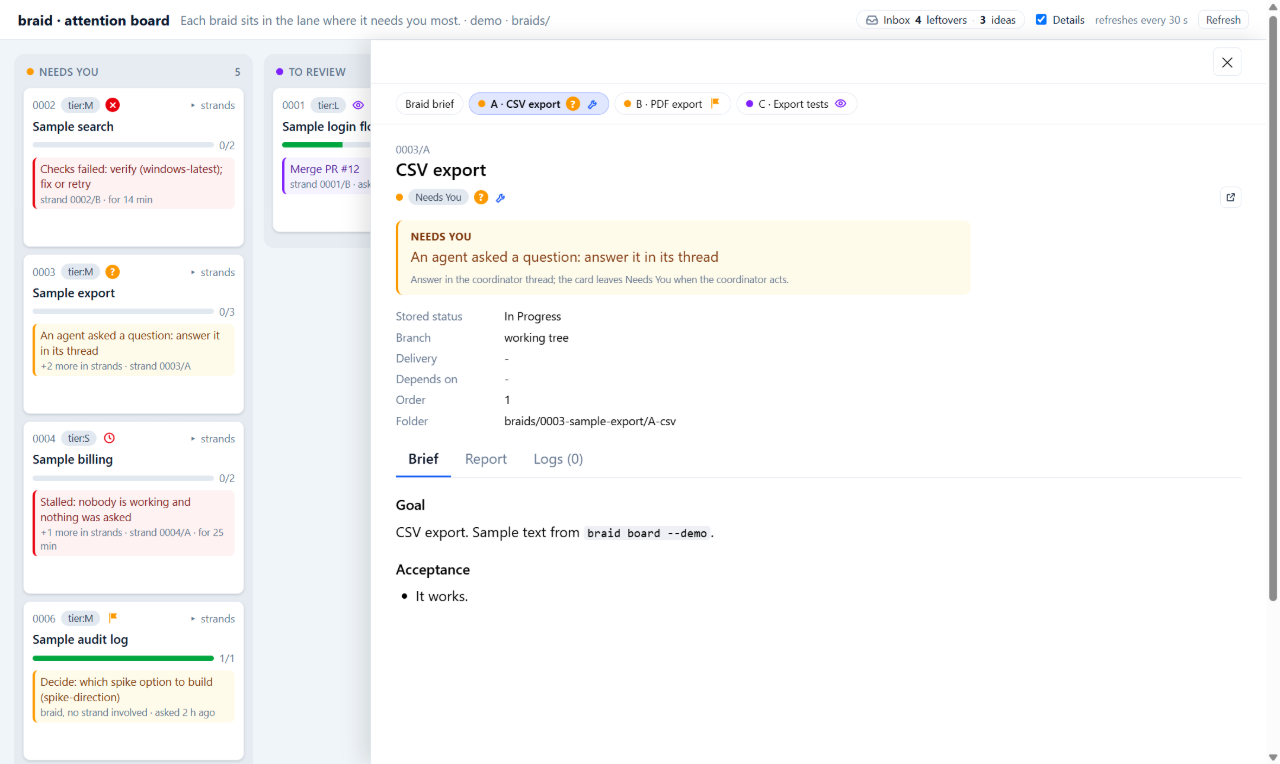
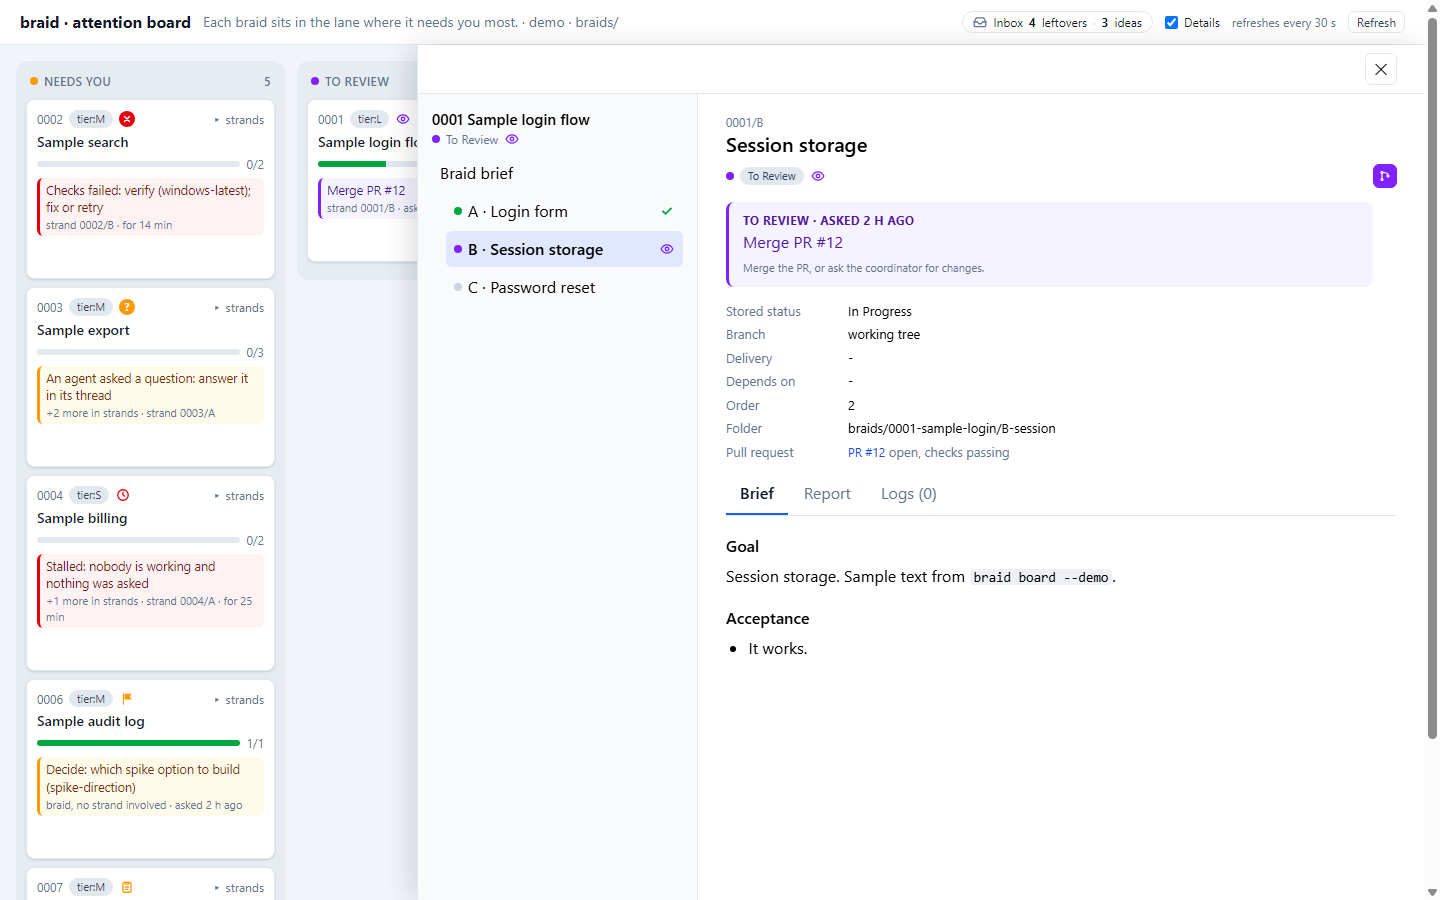
feat(board): strand list as a left rail in the details panel

diff --git a/web/src/App.tsx b/web/src/App.tsx
@@ -884,24 +884,30 @@ function Logs({ logs }: { logs: ItemDetail["logs"] }) {
   );
 }
 
-/** Moving between a braid's brief and its strands, inside the details. */
+/** The braid's contents, a rail beside the details: the braid, its brief and one row per strand. */
 function Contents({ braid, current }: { braid: BraidCard; current: string }) {
-  const chip = (id: string, label: string, strand: StrandCard | null) => (
+  const row = (id: string, label: string, strand: StrandCard | null) => (
     <button
       key={id}
       type="button"
       onClick={() => go(id)}
-      className={`flex flex-none cursor-pointer items-center gap-1.5 whitespace-nowrap rounded-full border px-2.5 py-1 text-xs hover:border-blue-600 ${current === id ? "border-indigo-300 bg-indigo-100 font-semibold" : "border-slate-200 bg-white"}`}
+      className={`mt-0.5 flex cursor-pointer items-center gap-1.5 rounded-md px-2 py-1.5 text-left hover:bg-slate-100 ${strand !== null ? "ml-3.5 w-[calc(100%-0.875rem)]" : "w-full"} ${current === id ? "bg-indigo-100 font-semibold" : ""}`}
     >
       {strand !== null && <LaneDot lane={strand.lane} />}
-      {label}
+      <span className="min-w-0 flex-1 truncate" title={label}>{label}</span>
       {strand !== null && <Marks marks={strandMarks(strand)} />}
     </button>
   );
   return (
-    <nav aria-label={`${braid.id} ${braid.title}`} className="flex flex-none gap-1.5 overflow-x-auto border-b border-slate-200 px-7 pb-2.5 pt-2.5 max-md:px-4">
-      {chip(braid.id, "Braid brief", null)}
-      {braid.strands.map((s) => chip(s.id, `${s.id.slice(5)} · ${s.title}`, s))}
+    <nav aria-label={`${braid.id} ${braid.title}`} className="overflow-y-auto overflow-x-hidden border-r border-slate-200 bg-slate-50 p-3.5 max-md:max-h-[34vh] max-md:border-b max-md:border-r-0 max-md:p-3">
+      <h2 className="text-[15px] font-semibold">{braid.id} {braid.title}</h2>
+      <div className="mb-2 flex items-center gap-1.5 text-xs text-slate-500">
+        <LaneDot lane={braid.lane} />
+        {LANE_LABEL[braid.lane]}
+        <Marks marks={cardMarks(braid)} />
+      </div>
+      {row(braid.id, "Braid brief", null)}
+      {braid.strands.map((x) => row(x.id, `${x.id.slice(5)} · ${x.title}`, x))}
     </nav>
   );
 }
@@ -934,10 +940,10 @@ function DetailsPanel({ id, tab, tick }: { id: string; tab: string; tick: Tick }
           </div>
           <Status loaded={loaded}>
             {(item) => (
-              <>
+              <div className={`grid min-h-0 flex-1 ${item.braid.strands.length > 0 ? "grid-cols-[280px_minmax(0,1fr)] max-md:grid-cols-1 max-md:grid-rows-[auto_minmax(0,1fr)]" : ""}`}>
                 {item.braid.strands.length > 0 && <Contents braid={item.braid} current={id} />}
                 <Detail key={item.id} item={item} tab={tab} />
-              </>
+              </div>
             )}
           </Status>
         </Dialog.Content>

diff --git a/docs/decisions.md b/docs/decisions.md
@@ -57,7 +57,7 @@ Updated: 2026-11-16. User requirements take precedence over implementation propo
 | D62 | Planning looks at the other open braids: after understanding the goal, the coordinator runs `braid list --open`, reads the briefs that touch the same commands, files or decisions, and judges each as overlap (a `related` link and an "Already decided" line), a prerequisite (a dependency, or a line to start after the other merges), or a duplicate or contradiction (`related` and a `scope` warning in the plan request, with the options). A warning never stops planning: the plan is drafted and shown with it, and the user's answer, logged on the braid, decides. Only unfinished braids are compared. | A braid lives on its branch until its final PR, so a plan made from `main` alone missed 0024, 0025 and 0026 while 0027 was planned. Overlap is a reading of goals and decisions, which the coordinator does and a CLI heuristic can't; the CLI only gathers the braids. Putting the conflict in the plan request keeps one approval instead of a second stop. (0027 plan, built in 0027/C.) |
 | D63 | A braid card (and the braid's page and Needs You row) with strands carries one compact Coordinator button, which opens its coordinator thread (running, else the newest idle one); it carries no braid-level Open thread, and each strand row keeps its own. A braid without strands keeps Open thread (its worker) plus Coordinator. The `open` action takes `{ id, thread: "coordinator" }` and refuses (400) when there is no coordinator thread. | Each worker already has its button on its strand row, the braid-level one opened only a final-PR reviewer or an idle braid-keyed thread, and the coordinator could not be reached from the board while a strand ran. Mockups approved by the user, 2026-11-18, item 0030. |
 | D64 | The board server reads GitHub, T3, the braids and the inbox in a background loop (on start, every 30 s, 200 ms after a change under `braids/`, on Refresh), one read at a time, and answers `/api/board` and `/api/item` from the latest snapshot; a snapshot is stored only when every source was read, and the first request waits for it. `gh` runs without blocking the server. Open thread takes its link from the snapshot; Start and Merge still read GitHub and T3 fresh. `BRAID_BOARD_TIMINGS=1` prints each read's milliseconds per source. The reads on that path are batched and asynchronous (Done dates in one `git log`, blobs through `git cat-file --batch`; `thread show` is not cached: `thread list` has no pending count and its `updatedAt` lags), with the same data as the one-by-one reads. | A request used to read GitHub, T3 and the braids itself, so an item took seconds to open and `spawnSync` froze the server meanwhile. The user requires the board to be complete and correct, never a partial view, so the page keeps the last whole snapshot until a new whole one is ready. Acting requests must not rely on a snapshot that may be 30 s old. (0028 plan, built in 0028/A; cheaper reads in 0028/B.) |
-| D65 | The board's item details open as a side panel over the board, not as a page: the board stays mounted, the panel is `min(70vw, 1200px)` wide (at least 720 px where the screen allows) and fills the screen below `md`. The hash routes and `#token=` stay; opening adds one history entry, moves inside the details replace it, so Back, Esc, the close button and a click on the board close the panel. The Inbox stays a page. | Reading the board and an item at once was the point: a page replaced the board and lost its scroll and open lanes. A side panel keeps the left lanes visible; a pop-up would dim and cover them. The user chose the panel from mockups and asked for about two-thirds of the width so the brief reads comfortably (user, 2026-11-19, item 0034). |
+| D65 | The board's item details open as a side panel over the board, not as a page: the board stays mounted, the panel is `min(70vw, 1200px)` wide (at least 720 px where the screen allows) and fills the screen below `md`. The hash routes and `#token=` stay; opening adds one history entry, moves inside the details replace it, so Back, Esc, the close button and a click on the board close the panel. The Inbox stays a page. | Reading the board and an item at once was the point: a page replaced the board and lost its scroll and open lanes. A side panel keeps the left lanes visible; a pop-up would dim and cover them. The user chose the panel from mockups and asked for about two-thirds of the width so the brief reads comfortably (user, 2026-11-19, item 0034). Inside the panel a braid's strands are a left rail again, as on the old item page (the chip row 0034 first used was odd to the user); on a phone the rail sits above the details, at most a third of the screen high (user, 2026-11-19, item 0042). |
 | D66 | The coordinator asks the user with the host's question tool (AskUserQuestion in Claude Code, a pending request in T3) and a fixed option set per kind of stop, each option tied to its next step: a handover offers *Merge now* (a merge on request with the recap's head), *I'll merge it myself* and *Let me see the report*; a plan offers *Approve*, *Change something* and *Show me the briefs*; a goal's planning PR offers *Merge now* (a plain merge once its checks are green), *I'll merge it myself* and *Show me the PR*; a decision offers its concrete choices, recommended first; a stop case offers the ways forward it allows. `braid ask` or `braid handover` still opens the request first, and the answer is logged with `braid answer`. The tool is used only when the turn ends waiting for the user alone; while agents or CI still run for the coordinator (auto mode's sweep while strands go on, a planning PR with pending checks) the question stays in chat. Hosts without the tool, and questions in chat, get the same options as lettered answers. Rules in the [coordinator skill](../.agents/skills/braid/SKILL.md#talking-to-the-user). | The user answers most stops from the phone and wanted one tap instead of typing; the skill said only "use the question tool if there is one", so most stops ended as plain chat with no clear answers. A question held open blocks the coordinator's turn, so watch wakes and worker reports would queue behind it (0015/A, option D); hence the rule to use it only when nothing else runs. |
 
 D12, D13, D14, D17 and D19–D25 (Agile vocabulary, report formats, review naming, assignment packets, delivery and record-ownership rules) and D27 (workspace-binding helper) were process decisions superseded by D28 and D29. Their IDs are not reused.

diff --git a/docs/board.md b/docs/board.md
@@ -91,7 +91,7 @@ The setting is kept in the cookie `details` (`on` or `off`), so it survives a re
 
 ### The item details
 
-Clicking a card, a strand row or a Done row opens the item's details in a **side panel over the right of the board**; the board stays mounted underneath, so its scroll, open lanes and Done list are as they were. The panel is `min(70vw, 1200px)` wide, never under 720 px where the screen allows, so the brief reads comfortably and the left lanes stay visible. It shows a chip row to move between the braid brief and its strands, the header with the actions, the request banner, the fields and the Brief, Report and Logs tabs. It refreshes with the board.
+Clicking a card, a strand row or a Done row opens the item's details in a **side panel over the right of the board**; the board stays mounted underneath, so its scroll, open lanes and Done list are as they were. The panel is `min(70vw, 1200px)` wide, never under 720 px where the screen allows, so the brief reads comfortably and the left lanes stay visible. A braid with strands, or one of its strands, is two columns inside the panel: a **rail** on the left (280 px, scrolls on its own) with the braid's id and title, its lane and marks, "Braid brief" and one row per strand (lane dot, `A · Title`, marks) with the current one highlighted, and the details on the right; a click on a rail row moves inside the panel. A braid without strands has no rail. The details show the header with the actions, the request banner, the fields and the Brief, Report and Logs tabs. It refreshes with the board.
 
 ![A strand's details over the board: the request banner above the brief](design/board-screenshots/71-details-panel.png)
 
@@ -168,7 +168,7 @@ One page serves desktop and phone; below Tailwind's `md` breakpoint (768 px) CSS
 - A **tab bar with counts** (Needs you, Review, Working, To Do, Done) replaces the five columns; one lane shows at a time, Needs You first. **Swiping** left or right changes lane (a horizontal move of over 60 px that is at least twice the vertical one; a touch starting within 30 px of the screen's left or right edge is the browser's back or forward gesture and is ignored). The Done tab works as on desktop: collapsed, then the 10 newest and Show more.
 - Buttons are at least 44 px high and wide, and each shows its icon with a short label: Start, Merge, Open thread, Coordinator (the desktop keeps 24 px icon buttons with tooltips).
 - **Open thread and Coordinator are links** to the thread's `t3code://threads/<env>/<thread>` app link (`t3codeUrl` in `src/board/marks.ts`), opened by the phone's own T3 app, not the `open` action, which opens the app on the machine running the board. A thread link that isn't of that shape shows no link there and falls back to the button; over Tailscale the button isn't there (below).
-- The details take the whole screen with a clear close (← Board and ✕); Back closes them, and the header wraps. Answering a request still happens in the coordinator's thread: the board has no Answer or Approve button.
+- The details take the whole screen with a clear close (← Board and ✕); Back closes them, and the header wraps. The rail sits above the details, at most a third of the screen high, and scrolls on its own. Answering a request still happens in the coordinator's thread: the board has no Answer or Approve button.
 
 ![The details on a phone](design/board-screenshots/72-details-phone.png)
 

diff --git a/braids/0042-board-strand-list-as-a-left-rail-in-the/report.md b/braids/0042-board-strand-list-as-a-left-rail-in-the/report.md
@@ -1,0 +1,24 @@
+# Report 0042
+
+## What changed
+
+- `web/src/App.tsx`: `Contents` is the rail again, not a chip row. The panel for a braid with strands, or one of its strands, is two columns: a 280 px rail that scrolls on its own (braid id and title, lane and marks, "Braid brief", one row per strand with lane dot, `A · Title` and marks, the current one highlighted; a click calls `go`) and the details. A braid without strands keeps one column and no rail. On a phone the rail sits above the details, at most a third of the screen high, scrolling on its own. No "← Board" in the rail; the panel's ✕ and the phone's "← Board" are unchanged. The panel's width, closing and history rules are untouched.
+- `docs/board.md` "The item details" and the phone paragraph describe the rail; screenshots 71 and 72 are new. D65 in `docs/decisions.md` records the rail and the phone placement (user's verdict, 2026-11-19).
+
+## Why
+
+The chip row 0034 introduced read oddly to the user; they wanted the old item page's left rail back inside the panel.
+
+## Validation
+
+- `npm run verify` passed (306 tests, 0 failures).
+- Checked on `braid board --demo`: braid 0001 strand B at 1440 px (`final-desktop.png`) and at 390 px (`final-phone.png`) in this folder; braid 0005 (`Braid brief` selected) shows the highlight moving. Design stage: `mock-*.png`; verdict in `log-2026-11-19-user.md`.
+- Not screenshotted: a braid without strands; it is the unchanged one-column branch (`strands.length > 0` guards the rail and the grid).
+
+## Open
+
+Nothing.
+
+For later items: none.
+
+Needs the user: none.

diff --git a/braids/0042-board-strand-list-as-a-left-rail-in-the/brief.md b/braids/0042-board-strand-list-as-a-left-rail-in-the/brief.md
@@ -40,9 +40,9 @@ Expected size: about 60 lines in 3 files.
 
 ## Completion
 
-- [ ] Screenshots of the rail in the panel (desktop and phone) in the item folder, and the user's verdict in the item's log
-- [ ] A braid with strands, and each of its strands, opens with the rail on the left and the details on the right; a click on a rail row moves inside the panel (demo screenshot in the report)
-- [ ] A braid without strands shows no rail
-- [ ] `docs/board.md` "The item details" and its screenshot match
-- [ ] The gate command from BRAID.md passes
-- [ ] report.md written: what changed, why, validation, anything open
+- [x] Screenshots of the rail in the panel (desktop and phone) in the item folder, and the user's verdict in the item's log
+- [x] A braid with strands, and each of its strands, opens with the rail on the left and the details on the right; a click on a rail row moves inside the panel (demo screenshot in the report)
+- [x] A braid without strands shows no rail
+- [x] `docs/board.md` "The item details" and its screenshot match
+- [x] The gate command from BRAID.md passes
+- [x] report.md written: what changed, why, validation, anything open

diff --git a/braids/0042-board-strand-list-as-a-left-rail-in-the/log-2026-11-19-user.md b/braids/0042-board-strand-list-as-a-left-rail-in-the/log-2026-11-19-user.md
@@ -1,3 +1,7 @@
 ## 2026-11-19 19:50Z
 
 User approved the plan (with the screenshot stop) and the start.
+
+## 2026-11-19 20:00Z
+
+User approved the desktop rail; phone: rail above the details (capped at about a third, scrolls).
